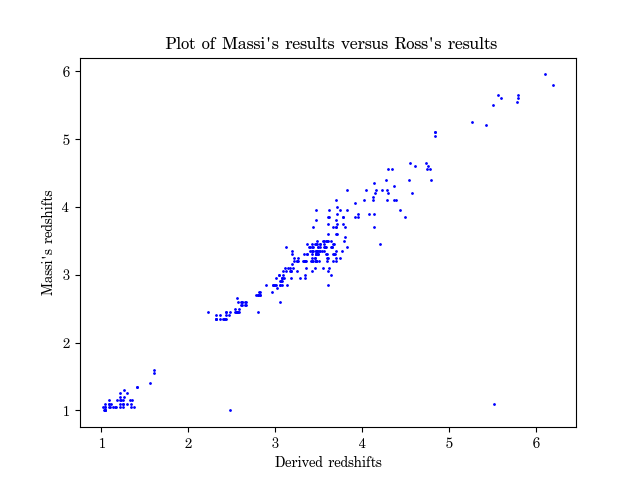
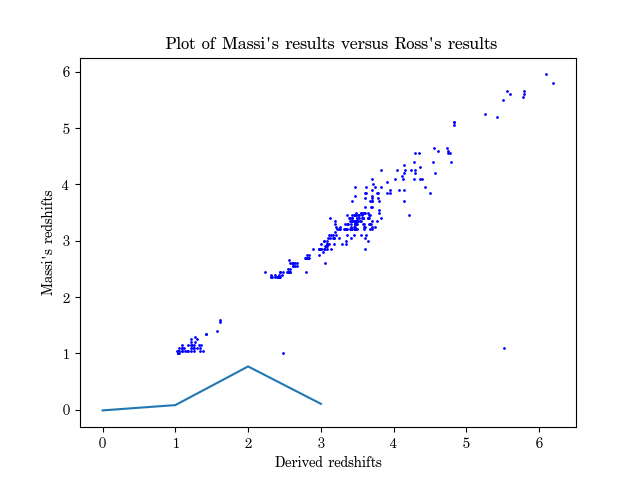
meh

diff --git a/bagpipes_run.py b/bagpipes_run.py
@@ -2,50 +2,10 @@ import bagpipes as pipes
 import numpy as np
 import load_data as ld
 import eff_wavs_filter_function as ewavs
-
-
-exp = {}                          # Tau model star formation history component
-exp["age"] = 2.                   # Gyr
-exp["tau"] = 0.75                 # Gyr
-exp["massformed"] = 9.            # log_10(M*/M_solar)
-exp["metallicity"] = 0.5          # Z/Z_oldsolar
-
-dust = {}                         # Dust component
-dust["type"] = "Calzetti"         # Define the shape of the attenuation curve
-dust["Av"] = 0.4                  # magnitudes
-
-model_components = {}                   # The model components dictionary
-model_components["redshift"] = 1.13     # Observed redshift
-model_components["exponential"] = exp
-model_components["dust"] = dust
-
-
-filters = ["filters/filters_m/CH2",
-            "filters/filters_m/HAWKI_K",
-            "filters/filters_m/ISAAC_Ks",
-            "filters/filters_m/CH1",
-            "filters/filters_m/VIMOS_U","filters/filters_m/f098m",
-            "filters/filters_m/f105w","filters/filters_m/f125w",
-            "filters/filters_m/f160w","filters/filters_m/f435w","filters/filters_m/f606w",
-            "filters/filters_m/f775w","filters/filters_m/f814w", "filters/filters_m/f850lp"]
-
-filters_list = np.loadtxt("//Users/massissiliahamadouche/anaconda3/lib/python3.7/site-packages/bagpipes/filters/massi.filt_list", dtype='str')
-
-
-model = pipes.model_galaxy(model_components, filt_list = filters)
-
-#print(filters_list)
-
-model = pipes.model_galaxy(model_components, filt_list=filters_list)
-
-
-fig = model.plot()
-fig = model.sfh.plot()
-
-
-#model = pipes.model_galaxy(model_components, spec_wavs=np.arange(5000., 10000., 5.))
-
-#fig = model.plot()
+import pandas as pd
+from astropy.table import Table
+from astropy.io import fits
+import conversion_function as cf
 
 exp = {}
 exp["age"] = (0.1, 15.)
@@ -63,22 +23,83 @@ fit_instructions["exponential"] = exp
 fit_instructions["dust"] = dust
 
 
-eff_wavs = ewavs.filter_wavs()
-ross_objects = Table.read('/Users/massissiliahamadouche/Downloads/massi_cdfs_vandels_test_phot.fits').to_pandas()
+filters = ["/Users/PhDStuff/sed_fitting_code/filters/CH2",
+            "/Users/PhDStuff/sed_fitting_code/filters/HAWKI_K",
+            "/Users/PhDStuff/sed_fitting_code/filters/ISAAC_Ks",
+            "/Users/PhDStuff/sed_fitting_code/filters/CH1",
+            "/Users/PhDStuff/sed_fitting_code/filters/VIMOS_U","/Users/PhDStuff/sed_fitting_code/filters/f098m",
+            "/Users/PhDStuff/sed_fitting_code/filters/f105w","/Users/PhDStuff/sed_fitting_code/filters/f125w",
+            "/Users/PhDStuff/sed_fitting_code/filters/f160w","/Users/PhDStuff/sed_fitting_code/filters/f435w","/Users/PhDStuff/sed_fitting_code/filters/f606w",
+            "/Users/PhDStuff/sed_fitting_code/filters/f775w","/Users/PhDStuff/sed_fitting_code/filters/f814w", "/Users/PhDStuff/sed_fitting_code/filters/f850lp"]
 
-objects = np.array('CDFS'+ ross_objects['ID'].astype(str).str.pad(6, side='left', fillchar='0'))
+#filters_list = np.loadtxt("//Users/massissiliahamadouche/anaconda3/lib/python3.7/site-packages/bagpipes/filters/massi.filt_list", dtype='str')
+
+"""
+model = pipes.model_galaxy(model_components, filt_list = filters)
+
+#print(filters_list)
+
+#model = pipes.model_galaxy(model_components, filt_list=filters_list)
+
+
+fig = model.plot()
+fig = model.sfh.plot()
+"""
+
+#model = pipes.model_galaxy(model_components, spec_wavs=np.arange(5000., 10000., 5.))
+
+#fig = model.plot()
+
+catalog = Table.read('/Users/massissiliahamadouche/Downloads/massi_cdfs_vandels_test_phot.fits').to_pandas()
+
+eff_wavs = ewavs.filter_wavs()
+
+objects = np.array('CDFS'+ catalog['ID'].astype(str).str.pad(6, side='left', fillchar='0'))
+
+flux_cols = ['CH2_flux', 'Ks_HAWKI_flux','Ks_ISAAC_flux','CH1_flux','VIMOS_U_flux','F098M_flux','F105W_flux','F125W_flux','F160W_flux','F435W_flux','F606W_flux','F775W_flux','F814W_flux','F850LP_flux']
+flux_errs_cols = ['CH2_err', 'Ks_HAWKI_err','Ks_ISAAC_err','CH1_err','VIMOS_U_err','F098M_err','F105W_err','F125W_err','F160W_err', 'F435W_err','F606W_err', 'F775W_err','F814W_err', 'F850LP_err']
+
 
 data = []
+
 for i in range(len(objects)):
     data.append(objects[i])
-#print(data)
-ID, fluxes_obs_raw, fluxerrs_obs_raw = ld.load_catalog_data(data)
 
-fluxes_obs = cf.conversion_func(fluxes_obs_raw, eff_wavs)
-fluxerrs_obs = cf.conversion_func(fluxerrs_obs_raw, eff_wavs)
+data = data[0:5]
 
+def load_data(data_array):
+    # load up the relevant columns from the catalogue.
+    # Find the correct row for the object we want.
+    ind = catalog.set_index('CDFS' + catalog['ID'].astype(str).str.pad(6, side="left", fillchar="0"))
+    # Extract the object we want from the catalogue.
+    fluxes = ind.loc[data_array, flux_cols].values
+    #print(cat_data)
+    fluxerrs = ind.loc[data_array,flux_errs_cols].values
+    print(fluxes)
+    # Turn these into a 2D array.
+    photometry = np.c_[fluxes, fluxerrs]
 
-fit_cat = pipes.fit_catalogue(IDs, fit_instructions, load_goodss, spectrum_exists=False,
+    # blow up the errors associated with any missing fluxes.
+    for i in range(len(photometry)):
+        if (photometry[i, 0] == 0.) or (photometry[i, 1] <= 0):
+            photometry[i,:] = [0., 9.9*10**99.]
+
+    # Enforce a maximum SNR of 20, or 10 in the IRAC channels.
+    for i in range(len(photometry)):
+        if i < 10:
+            max_snr = 20.
+
+        else:
+            max_snr = 10.
+
+        if photometry[i, 0]/photometry[i, 1] > max_snr:
+            photometry[i, 1] = photometry[i, 0]/max_snr
+
+    return photometry
+
+#print(photometry)
+
+fit_cat = pipes.fit_catalogue(data, fit_instructions, load_data, spectrum_exists=False,
                               cat_filt_list=filters, run="guo_cat")
 
-fit_cat.fit(verbose=False)
+fit_cat.fit()

diff --git a/comparison_plots.py b/comparison_plots.py
@@ -5,6 +5,7 @@ import pandas as pd
 from astropy.table import Table
 from astropy.io import fits
 import load_data as ld
+import scipy.optimize as opt
 
 print("{:e}".format(10**10.6))
 input()
@@ -20,6 +21,7 @@ my_masses = my_results['mass']
 ross_mass = ross_objects['log10(M*)']
 massi_z = my_results['redshift']
 ross_z =  ross_objects['ZSPEC']
+delta_mass = ross_mass - np.log10(my_masses)
 
 matplotlib.rcParams['font.family'] = "AppleMyungjo"
 #matplotlib.rcParams['font.family'] = "Hiragino Mincho Pro"
@@ -31,9 +33,41 @@ plt.savefig('MassComparisonPlot_IGM.png')
 plt.close()
 #print(my_results)
 
+plt.scatter(ross_mass,delta_mass,  color="red", s = 1)
+plt.title(" Plot of Massi's results versus Ross's results")
+plt.xlabel('Derived masses (10$^{m}$ solar masses)')
+plt.ylabel("Delta mass (10$^{m}$ solar masses)")
+plt.savefig('DeltaMassComparisonPlot_IGM.png')
+plt.close()
+
+def model(a,b, x1):
+    return a*x1 + b
+
+def chisq(param, args):
+
+    m, c = param
+    x1, y1, yerrs = args
+    y_model = model(m,c, x1)
+
+    chi2 = np.sum(((y1 - y_model)/yerrs)**2)
+    print(m, c, chi2)
+    return chi2
+
+yerrs = np.ones(309)
+
+x0 = [0., 0.]
+print(x0)
+
+best_chisq = opt.minimize(chisq,x0,args=[ross_z, massi_z, yerrs])
+
+print(best_chisq)
+m = 1.01
+c = 1.4901161193847656e-08
+plt.plot(ross_z, model(m,c, ross_z),'',label='model')
+#plt.errorbar(ross_z, massi_z,yerr=yerrs,label='errors', ls=" ")
 plt.scatter(ross_z, massi_z, color="blue", s = 1)
 plt.title(" Plot of Massi's results versus Ross's results")
 plt.xlabel('Derived redshifts')
 plt.ylabel("Massi's redshifts")
-plt.savefig('RedshiftComparisonPlot_IGM.png')
+plt.savefig('RedshiftComparisonPlottest_IGM.png')
 plt.close()

diff --git a/load_data.py b/load_data.py
@@ -17,7 +17,7 @@ def load_catalog_data(data_array):
     catalog = pd.DataFrame(catalog_file)
     #catalog_IDs = catalog_file['ID']
     ind = catalog.set_index('CDFS' + catalog['ID'].astype(str).str.pad(6, side="left", fillchar="0"))
-    print(f'ind: {ind.index}')
+    #print(f'ind: {ind.index}')
     #cat_ind = ind.index
     #catalog_IDs.index = 'CDFS' + catalog_file['ID'].astype(str).str.pad(6, side="left", fillchar="0")#+ catalog_file['CAT'].str.decode("utf-8")
     #print("catalog.catalog_IDs", catalog.catalog_IDs)
@@ -27,7 +27,7 @@ def load_catalog_data(data_array):
     #print("_cat:", _cat)
     #cat_data = catalog_file.loc.[_cat, flux_cols].values
     cat_data = ind.loc[data_array, flux_cols].values
-    print(cat_data)
+    #print(cat_data)
     cat_errs = ind.loc[data_array,flux_errs_cols].values
     #print(cat_data[0].shape[0])
 

diff --git a/SED_Code.py b/SED_Code.py
@@ -62,7 +62,6 @@ filter_curves = pc.load_filter_files(filter_list)
 igm = pipes.models.igm(waves)
 
 
-
 for z in range(len(redshifts)):
     redshift = redshifts[z]
     for d in range(len(dust_att)):
@@ -128,4 +127,4 @@ hdu.writeto(file)
 
 
 
-def test_plots
+def test_plots():
